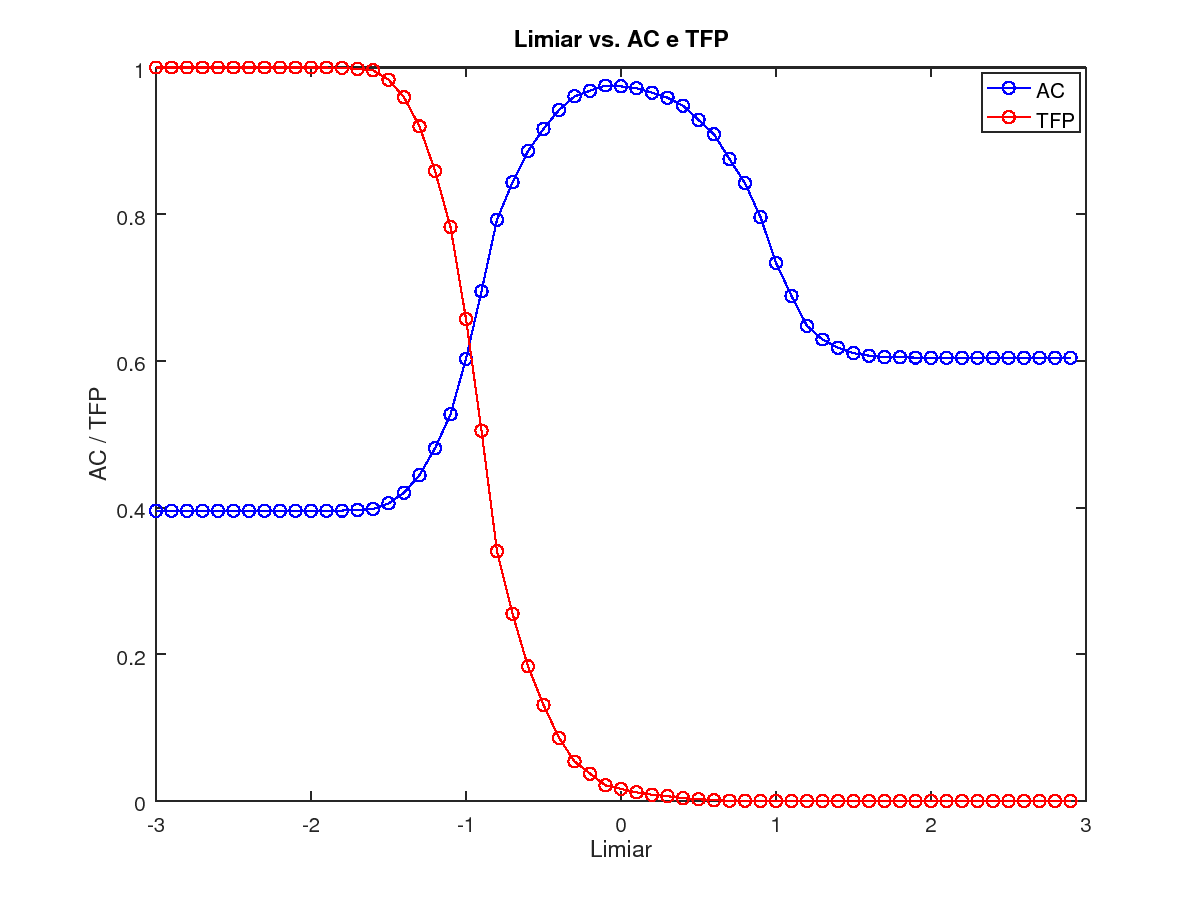
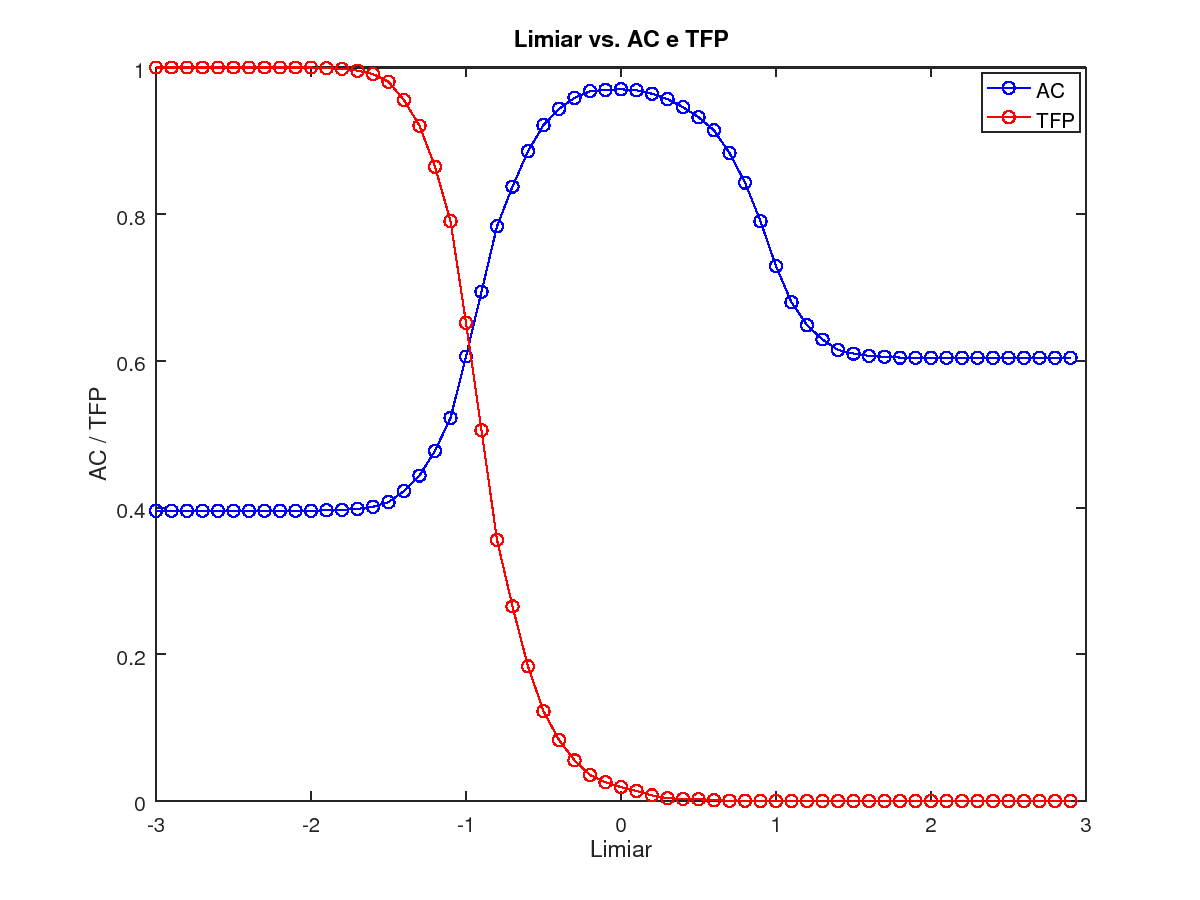
Using Cholesky linear solving

diff --git a/projeto-2/getAlphaVector.m b/projeto-2/getAlphaVector.m
@@ -1,7 +1,8 @@
 function alpha = getAlphaVector(Xtr, ytr, G)
   % Inicializa os componentes do sistema linear
   A = (G*G');
+  C = chol(A);
   b = G*ytr';
-  
-  alpha = A\b;
+
+  alpha = C\(C'\b);
 end

diff --git a/projeto-2/main.m b/projeto-2/main.m
@@ -29,7 +29,7 @@ tfp = getTFP(L, s, ytr)
 
 Lbest = generateGraph(-3, 3, s, ytr);
 
-L = Lbest 
+L = Lbest
 s = RNA(alpha, W, b, Xte);
 ac = getAC(L, s, yte)
 tfp = getTFP(L, s, yte)
